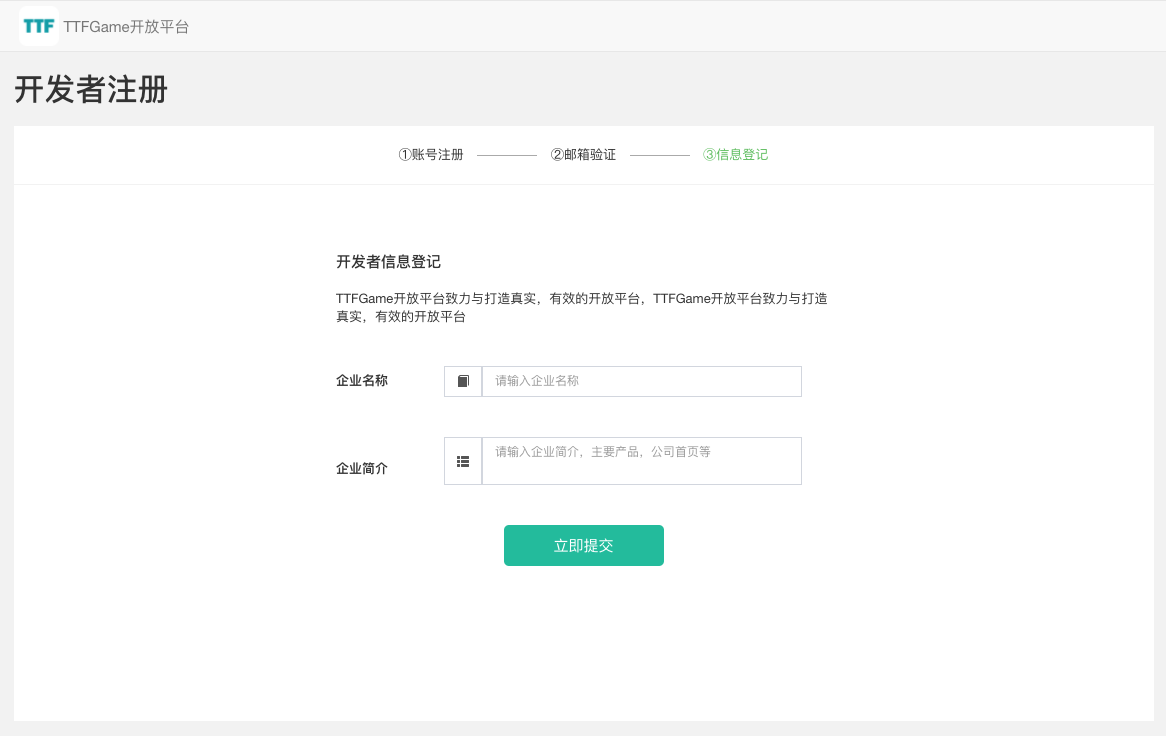
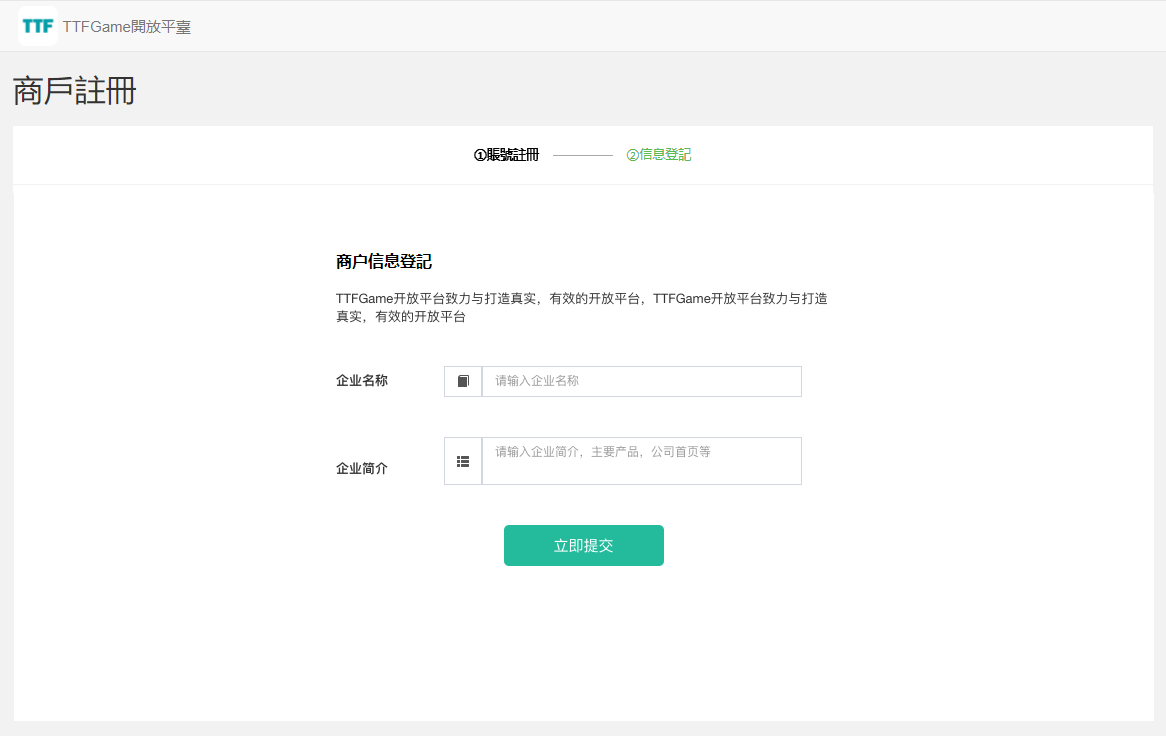
更新部分内容

diff --git a/docs/index.html b/docs/index.html
@@ -12,9 +12,14 @@
   <div id="app"></div>
   <script>
     window.$docsify = {
+      search: 'auto', // 默认值
       name: '<i style="font-size: 0.8em;">TTFGame开放平台</i><br>商户文档',
+      search : [
+        '/',            // => /README.md
+      ],
     }
   </script>
   <script src="https://cdn.bootcdn.net/ajax/libs/docsify/4.11.6/docsify.min.js"></script>
+  <script src="//cdn.jsdelivr.net/npm/docsify/lib/plugins/zoom-image.min.js"></script>
 </body>
 </html>

diff --git a/docs/README.md b/docs/README.md
@@ -2,228 +2,37 @@
 
 TTFGame开放平台是基于TTFGame生态与区块链所打造的开放性游戏平台。
 
-![preview](/img/ttfgame_preview_01.png)
+![preview](./img/ttfgame_preview_01.png)
 
 > TTFGame生态下有多个基础平台支持，当前开放平台仅针对区块链部分。
 
   <br />
   <br />
 
-# 2 开发前准备
+# 2 平台准备
 
-## 2.1 创建开发者账号
+通过平台的[注册链接](http://ttftest.dashgame.com/admin/index/merchat_register1)，创建一个商户账号。
 
-通过[开发者注册页面](http://ttftest.dashgame.com/admin/index/register1)，创建一个开发者账号。
-
-![preview](/img/ttfgame_preview_02.png)
-
-验证邮箱。
-
-![preview](/img/ttfgame_preview_03.png)
+![preview](./img/ttfgame_preview_02.png)
 
 录入信息等待审核验证。
 
-![preview](/img/ttfgame_preview_04.png)
+![preview](./img/ttfgame_preview_04.png)
 
-## 2.2 添加测试人员账号
+# 3 接入游戏
 
-通过验证以后，可以通过左侧菜单添加测试人员账号。
+## 3.1 自行接入
 
-![preview](/img/ttfgame_preview_06.png)
+## 3.2 接入游戏内容开发者
 
-其中，手机号和密码是必填项。
+# 4 自定义客户端（预约）
 
-## 2.3 创建游戏
+## 4.1 简述
 
-通过验证以后，可以通过左侧菜单创建游戏。
+开放平台的客户端支持商户进行部分样式和文本自定义，但需要按规范提交需求，由我们统一重新打包测试。
 
-![preview](/img/ttfgame_preview_05.png)
+自定义的客户端同时支持三端，更加个性化，以区别于其他商户的客户端。
 
-创建好游戏以后，需要设置一些必要参数，以便之后接入游戏。包括：
+## 4.2 规范
 
-```
-平台ID
-区服ID
-支付回调地址（正式版的服务端支付回调地址）
-登陆地址（正式版的游戏访问地址）
-官方测试链接（开放平台测试版的官方链接地址，可与游戏详情里的一致）
-支付回调测试地址（开放平台测试版的服务端支付回调地址））
-登录测试地址（开放平台测试版的游戏访问地址）
-```
-![preview](/img/ttfgame_preview_07.png)
-
-设置完成以后，如果有需要调整的，可点击编辑按钮更改。
-
-![preview](/img/ttfgame_preview_08.png)
-
-创建和修改以后，请等待或联系管理员进行审核，以便添加和修改的内容生效。
-
-![preview](/img/ttfgame_preview_09.png)
-
-当自行检测游戏通过，并经过管理员审核以后，就可以点击发布按钮，发布游戏到正式客户端。
-
-![preview](/img/ttfgame_preview_10.png)
-
-## 2.4 下载测试App
-
-游戏创建并接入完成后，可以通过[安卓测试App](https://cdn.gocloudcache.com/site/client/assets/open/download/com.dashgame.dmgp.open.test.apk)来进行测试。
-
-也可以通过[H5版本](https://open.shock.chat/#/pages/login/login)来进行在线测试。
-
-**重要：请使用测试人员账号登录，才能看到仅在测试状态的游戏。**
-
-  <br />
-  <br />    
-
-# 3 接入指南
-
-## 3.1 接口说明
-
-### 3.1.1 用户登录
-
-**功能**：   玩家进入游戏
-
-**请求方式**： GET
-
-**请求参数**：
-
--- 用户名：		    username (urlencode之后的值)
-
--- 平台ID： 		platform（后台填写）
-
--- App ID：		    appid（后台获取）
-
--- 区服ID：		    area（后台填写，如1,2,3…）
-
--- 签名：  		    sign
-
--- 师傅用户名：		invite_user（可能为空）
-
--- 邀请码：		    shortcode
-
-
-**签名规则**： 
-
-`md5('appid=' + [appid] +  '&area=' + [area] + '&key=' + [appkey] + '&platform=' + [platform] + '&username=' + username)`
-
-(appkey为App密钥；键值按a-z排序)
-
-(如果后台填写了登录地址，App的游戏入口会使用请求参数组装成访问地址：[后台填写的登录地址]?username=[username]&appid=[appid]&platform=[platform]&area=[area]&sign=[sign]，否则会直接跳转填写的官网地址)
-
-
-
-### 3.1.2 支付
-
-
-#### 3.1.2.1 引入SDK
-
-`<script src="https://game.ttf.one/assets/sdk/toolpack.js"></script>`
-
-初始化sdk
-```
-var tool = new bcpgTool();
-tool.init();
-```
-
-#### 3.1.2.2 请求支付页面
-
-##### 发起支付
-
-`tool.initPay({支付参数})`
-
-**参数定义**：
-
---用户名：     		username (urlencode之后的值)
-
---平台ID：     		platform (后台填写)
-
---App ID：     		appid（后台获取）
-
---区服ID：     		area（后台填写，如1,2,3…）
-
---订单号：     		order
-
---价格： 		    amount
-
---商品名		    goodsname
-
---商品数量：	    quantity (如：6，不传则默认为1)
-
---签名：  		    sign
-
-**签名规则**： 
-
-`md5('appid=' + [appid] +  '&area=' + [area] + '&key=' + [paykey] + '&order=' + [order] + '&platform=' + [platform] + '&username=' + [username])`
-
-(paykey为支付密钥；键值按a-z排序)
-
-
-##### 客户端监听回调
-```
-window.addEventListener('pay_back', function(event){
-    console.log(JSON.stringify(event.data))
-    //客户端处理返回值
-});
-```
-
-##### 接口返回
-```
-数据格式： JSON
-code  : 1（无错误）/401（未登录授权）/9201（用户取消）/0（其他错误）
-msg :1-确定/401-请登录后操作/9201-用户取消/0-没有找到游戏信息/0-没有找到用户信息/0-上传的金额有误/0-签名错误
-data:{
-        order:订单号,
-        username:用户名,
-        platform:平台ID,
-        appid:App ID,
-        area:区服ID,
-        amount:支付金额,
-	    method:支付渠道
-     }
-```
-
-##### 回调地址返回
-```
-{
-        order: 订单号,
-        username: 用户名,
-        platform: 平台ID,
-        appid: App ID,
-        area: 区服ID,
-        amount: 支付金额,
-        goodsname: 商品名,
-        quantity: 商品数量,
-        goods: 商品ID,
-        sign: 签名
-     }
-```
-
-**签名规则**： 
-
-`md5('appid=' + [appid] +  '&area=' + [area] + '&key=' + [paykey] + '&order=' + [order] + '&platform=' + [platform] + '&username=' + [username])`
-
-(paykey为支付密钥；键值按a-z排序)
-
-**重要：接收到回调以后，请返回字符串`success`，以标识成功收到回调信息**
-
-
-## 3.2 其他
-
-
-### 3.2.1 SDK地址
-
-`https://game.ttf.one/assets/sdk/toolpack.js`
-
-(也可使用：`https://cdn.gocloudcache.com/site/client/assets/sdk/toolpack.js`)
-
-
-### 3.2.2 签名规则
-
-所有参数按key的ASCII升序排列，然后把参数构造成以下格式的字符串
-
-`a=xxx&b=xxx&c=xxx`
-
-小写md5()的结果就是参数中的sign
-
-例如：`md5('appid=' + [appid] +  '&area=' + [area] + '&key=' + [appkey/paykey] + '&order=' + [order] + '&platform=' + [platform] + '&username=' + [username])`
 
